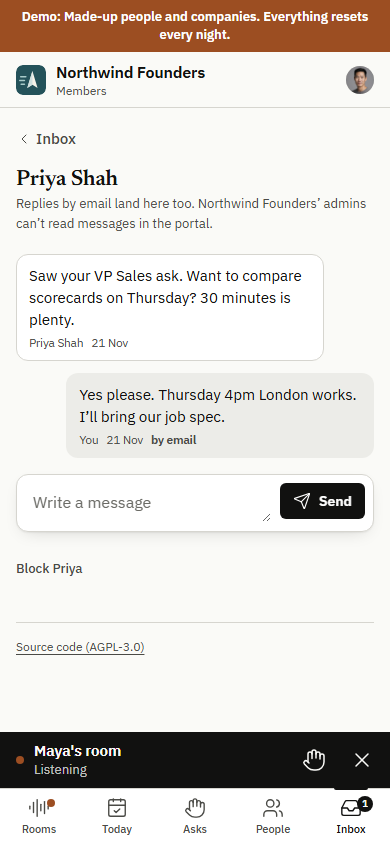
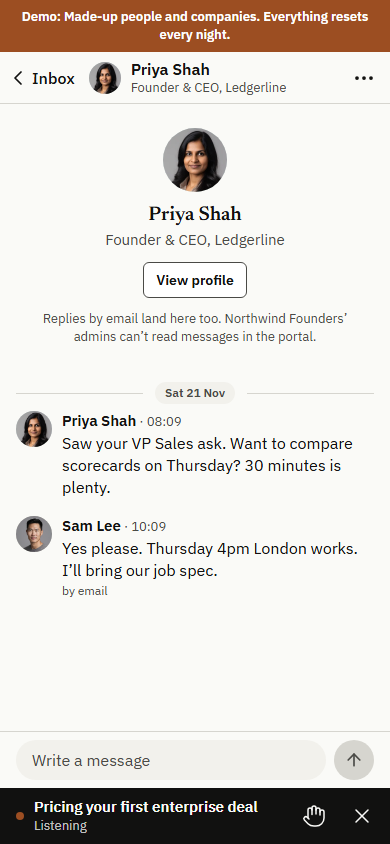
ui-polish part 6: tour rebuilt on main with Part 3; the verifier's re-check after Part 3

diff --git a/.ai/features/ui-polish/reports/part6/verification.md b/.ai/features/ui-polish/reports/part6/verification.md
@@ -7,7 +7,8 @@ preview. Demo people only: Sam Lee (member), Maya Ortiz (admin, host). Chromium 
 
 **Overall, first pass: FAIL** (three defects). **Re-check after the repairs (commit 612b2206): PASS. Re-check after
 the rebase onto Part 7's native tab bar (head 67a8e68c): PASS. Re-check after Part 2 (head 982ce3e1): PASS (its one
-new minor defect, demo mode in the store app, fixed and re-checked).** All three
+new minor defect, demo mode in the store app, fixed and re-checked). Re-check after Part 3 (head 6823c939):
+PASS, and check 7's thread half now passes too.** All three
 defects and the smaller ones I re-tested are fixed, and nothing new broke. The parts that need a real phone or Part 3
 are still NOT RUN. The rows below are the first pass; "Re-check" at the end replaces rows 1, 8 and 10 and defects 1–5
 and 7.
@@ -22,7 +23,7 @@ and 7.
 | 4 | App room (web preview, 390) | PASS | Title font Newsreader-SemiBold 22 px. Other text is IBMPlexSans-Regular or SemiBold. Every icon button draws an SVG: Minimise, More, Raise hand, React. "Leave" is a word. No emoji except in the reaction picker. Live dot rgb(156,78,34) = #9c4e22, and #e7a57e in dark. The sheet's top is at y 8 (16 px radius) and the dimmed page shows above it. Raise hand → line with Undo; Undo worked (Maya saw "Listener"). | after-app-room-390, after-app-react-390, after-app-more-390, after-app-hand-390, after-app-room-390-dark, after-app-room-360, after-app-room-300 |
 | 5 | Mini player (web preview, insets 0) | PASS; the store build 5 item is NOT RUN | On Today, the bar is 390×56 at y 732–788 and the tab bar is at y 788–844: a 0 px gap, with the tab bar fully visible. Same at 360 (628–684 / 684–740) and 300 (458–514 / 514–570). The main control and Leave are each 44×44, named "Raise hand"/"Lower hand" and "Leave"; the title area is named "Back to Maya's room". The dot is #9c4e22, and the fonts are Plex 15 px SemiBold / 13 px Regular. The hand button raised the hand: Maya saw "Hand up" and the chip. Tapping the title reopened the sheet (top 8). Leave on the room page showed "You left the room." with Join again, cleared --mini, and Maya's room count dropped to 1. | after-app-mini-today-390, after-app-mini-hand-390, after-app-left-390, after-app-mini-rooms-360, after-app-mini-rooms-300 |
 | 6 | Page padding | PASS | Today scrolled to the end: the last item ("Source code") ends at y 700 and the mini bar starts at y 732. Main's bottom padding is 144 px. | after-app-mini-today-end-390 |
-| 7 | On a pushed screen | PASS for the room page; NOT RUN for a thread | On the room page (data-pushed-screen) the bar sits at the bottom inset (y 788–844, tab bar hidden). On main, an Inbox thread is not a pushed screen yet (Part 3): it keeps the tab bar and its composer sits in the page (sticky, y 474–532), not pinned to the bottom. The mini bar sat correctly above the tab bar there. | after-app-mini-roompage-390, after-app-mini-thread-390 |
+| 7 | On a pushed screen | PASS for the room page; the thread half was NOT RUN at first; **PASS on the re-check after Part 3** | On the room page (data-pushed-screen) the bar sits at the bottom inset (y 788–844, tab bar hidden). On main, an Inbox thread is not a pushed screen yet (Part 3): it keeps the tab bar and its composer sits in the page (sticky, y 474–532), not pinned to the bottom. The mini bar sat correctly above the tab bar there. | after-app-mini-roompage-390, after-app-mini-thread-390 |
 | 8 | Sheets hide the mini bar | **FAIL** (the menu) at first; **PASS on re-check** | Real Sheets work. The room page's More sheet set html[data-sheet-open] and the bar hid; it came back when the sheet closed. The /parts sample sheet on a tab page did the same. **The avatar menu (the menu the check names) is a dropdown (role=menu), not a Sheet**: it never sets data-sheet-open, and the mini bar stays over it and covers the menu's lower rows (defect 3). | after-app-mini-sheet-open-390, after-app-mini-menu-390 |
 | 9 | Reduced motion | PASS (the app's speaking ring: code read, not seen) | App room sheet, normal: its top moves 852 → 313 → 99 → 36 → 14 → 8 over about 300 ms. Reduced: hidden, then at 8 in the next frame, with no slide. Web, reduced: no element on the page animates. The live dot's animation is "none", against "vr-pulse" normally. A speaking ring, forced on, shows "none" with a solid 2 px ink ring, against "vr-ring" normally. The fake microphone never triggered LiveKit's speaking detector, so I did not see a real speaking ring in either app. The app's SpeakingRing takes `isSteady` from reduced motion (code). | — |
 | 10 | Outline | PASS (at the limit); **re-check: exact match** | The Rooms tab, tapped from Today with the page's response held back 4 s, showed the outline. Outline against the real page: title (16,129) on both. Button 112×36 at x 262 against 106×36 at x 268; both right edges at 374. First card top 234 against 242 (**8 px**, the limit), with each row inside it 8 px higher too. The outline's section label is 8 px shorter than the real "Live now" label. | after-rooms-outline-390 |
@@ -164,6 +165,26 @@ I re-ran the same steps in the web preview: room page after minimising, with --s
   44×44, all at 56–100, title at 112, bar at 756–844. With --sat 47: header 52–151 (99 px, padding 47), row at
   103–147, bar at 722–810. Scrolled on a short screen, the header is stuck at 0–99 with its row at 51–95.
 - after-app-roompage-sat47-390.png was replaced and now shows the row right under the band.
+
+## Re-check after Part 3 (head 6823c939)
+
+Main now has Part 3: an Inbox thread is a pushed screen with its own header and a pinned reply bar. `.next` was
+rebuilt and `mobile/dist-web` is current. I ran it in the foreground and stopped every server and browser. Scripts:
+`.ai/tmp/verify-p6/recheck5-app.mjs` and `recheck5-web.mjs`.
+
+| Item | Result | Measured | Pictures |
+|---|---|---|---|
+| Check 7, the thread half (web preview, 390) | PASS | With the mini bar showing, Inbox → a thread (data-pushed-screen). The native tab bar is hidden and the mini bar sits at the bottom inset, 788–844. The reply bar (`.ib-compose`) is at 731–788, so it meets the mini bar with no gap and nothing covers it. The page has --mini 56px and --bottom-stack `calc(0px + 56px)`. Focusing the message box and typing a line (not sent) changes nothing: the reply bar stays at 731–788 and the box at 740–780. The newest message ends well above the reply bar. Back to the Inbox list: the mini bar returns to 732–788 above the native tab bar (788–844). | after-app-mini-thread-390 |
+| A thread in a plain phone browser (390) | PASS | Part 6 doesn't touch the thread. No data-mini-player, --mini 0px, no room styles on the page. Reply bar 787–844 and header 52–104, the same after typing, and no sideways scroll. With --sat 47 / --sab 34: reply bar 753–810, header 52–151. | — |
+| Check 10, the outline (390) | PASS (an exact match) | Outline against the page: title (16,125), the line under it (16,166) 26 px, "Live now" (16,212), first card (16,238) 358×132, and the rows inside the card at 255 / 281 / 313, all the same. Only the button's width differs (112 against 106), with both right edges at 374. | (unchanged) |
+| Rooms list at 390 and 1280, the web room at 390 | PASS (unchanged) | 390: Start a room 106×36, card 358×132, faces 40/28/28/28, Join 54×36, Room alerts at y 572, no footer. Tapping a face joins. 1280: 2 cards of 464 px. Web room: header 52–104 under the band (52–151 with --sat 47), Rooms 83×44, Leave 64×44, More 44×44, 4 columns, 64 px faces, bar at 756–844. On a short screen the header stays stuck at y 0. These are the same numbers as after Part 2. | (unchanged) |
+| App room and the mini bar on Today | PASS (unchanged) | Sheet top 8, Newsreader title, dot #9c4e22, SVG icons. On Today the mini bar is at 732–788 against the native tab bar's 788–844, a 0 px gap. Main control and Leave are 44×44. | (unchanged) |
+| Tests | PASS | `pnpm lint` (0 errors, the same old warning), `pnpm typecheck`, and the voice + shell + architecture tests (33 files, 819 tests). |
+
+A note for Part 3 (not Part 6): in the app's demo mode, the thread's own header (`.ib-thead`) has the same double
+status-bar gap the room header had. With --sat 47 the demo band is at 0–99 and the thread's header at 99–198, so there
+is a 47 px blank strip above "‹ Inbox". The same kind of rule fixes it:
+`html[data-app]:has(.fh-app .fh-demo-bar) .ib-thead{min-height:52px;padding-top:0}`.
 
 ## Undo after 4 s instead of 2.5 s
 4 s (about 4.5 s measured) is the right call. With a 44 px Undo target, 2.5 s is too short to read the line and reach
